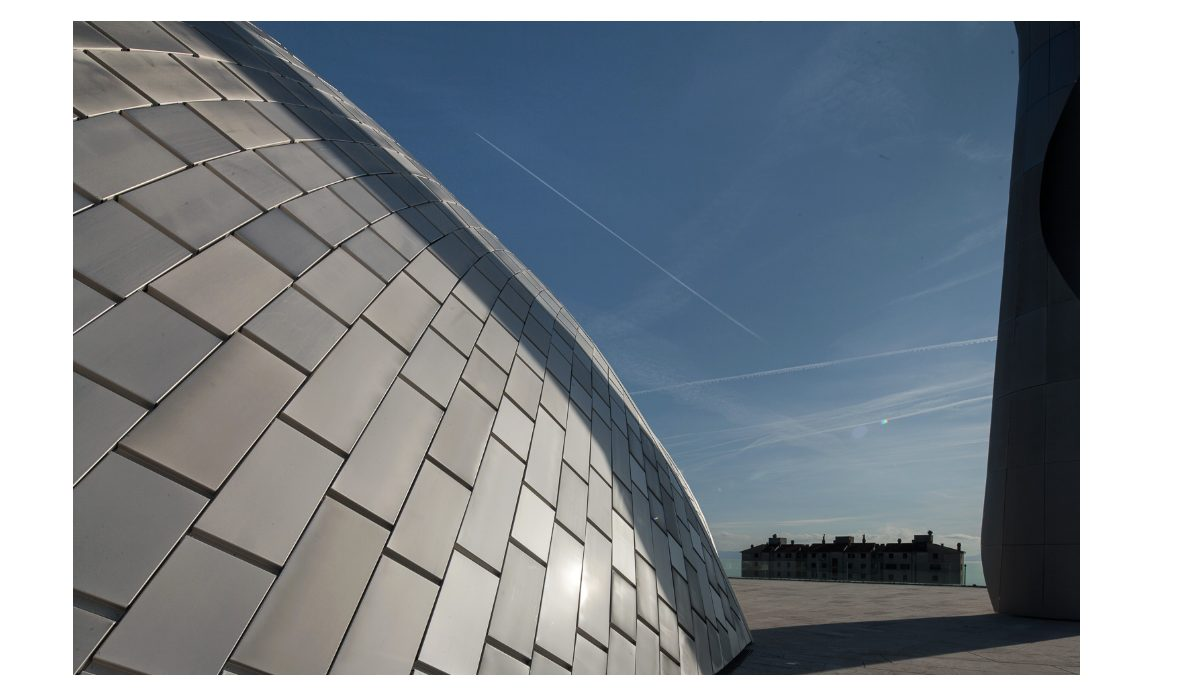
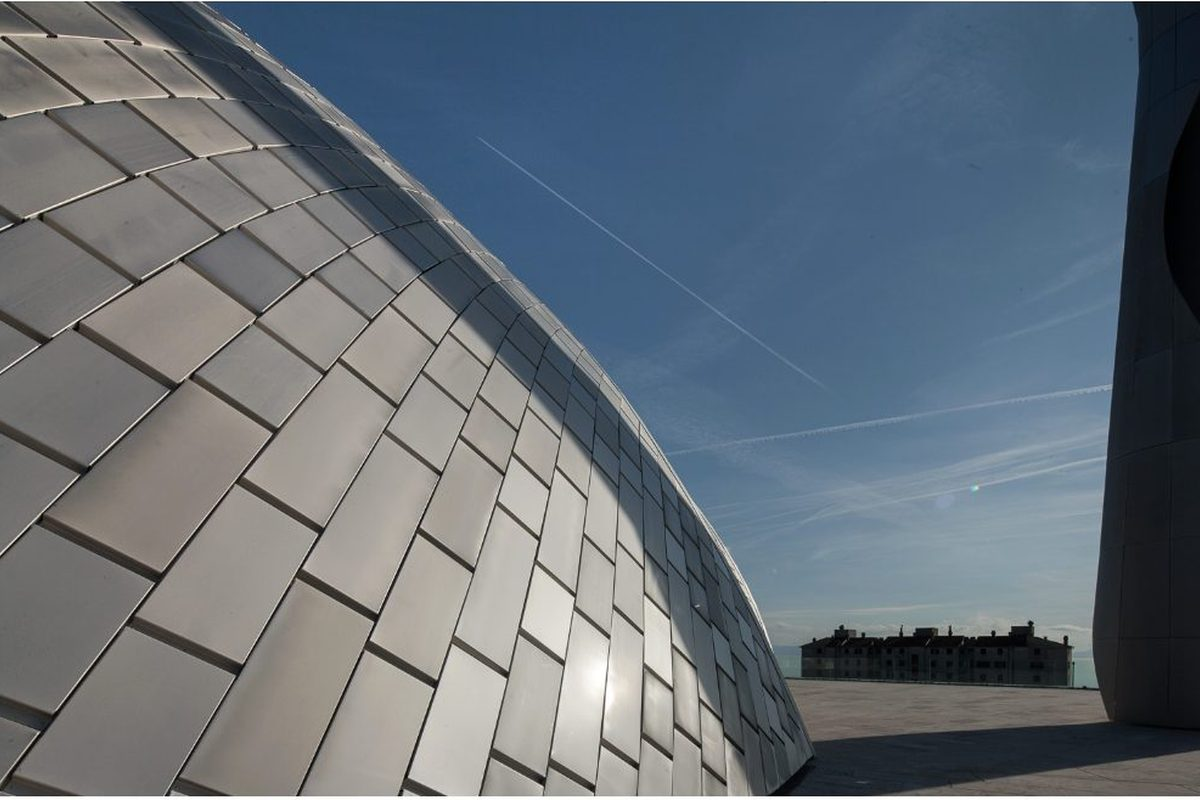
Jednake veličine slika na blog listi: popravljen Test cover (bijeli rubovi, 3:2), clamp naslova i opisa

diff --git a/style.css b/style.css
@@ -114,11 +114,12 @@ nav a:hover,nav a.active{color:var(--teal);}
 .post-list{padding:80px 0;}
 .post-card{display:grid;grid-template-columns:.9fr 1.1fr;gap:0;background:var(--light);border-radius:18px;overflow:hidden;transition:transform .25s,box-shadow .25s;}
 .post-card:hover{transform:translateY(-4px);box-shadow:0 14px 34px rgba(20,40,40,.12);}
-.post-card-img{min-height:280px;background-size:cover;background-position:center;}
+.post-card-img{min-height:320px;background-size:cover;background-position:center;}
+.post-card{min-height:320px;}
 .post-card-body{padding:44px 46px;display:flex;flex-direction:column;justify-content:center;align-items:flex-start;}
 .post-card-body .tag{font-size:12px;font-weight:700;letter-spacing:.25em;text-transform:uppercase;color:var(--teal);margin-bottom:12px;}
-.post-card-body h2{font-size:clamp(20px,2.6vw,28px);font-weight:500;margin-bottom:14px;}
-.post-card-body p{font-size:15px;margin-bottom:24px;}
+.post-card-body h2{font-size:clamp(20px,2.6vw,28px);font-weight:500;margin-bottom:14px;display:-webkit-box;-webkit-line-clamp:2;-webkit-box-orient:vertical;overflow:hidden;}
+.post-card-body p{font-size:15px;margin-bottom:24px;display:-webkit-box;-webkit-line-clamp:2;-webkit-box-orient:vertical;overflow:hidden;}
 .article{max-width:760px;margin:0 auto;padding:90px 24px;}
 .article .tag{font-size:12px;font-weight:700;letter-spacing:.25em;text-transform:uppercase;color:var(--teal);margin-bottom:14px;}
 .article h1{font-size:clamp(28px,4vw,42px);font-weight:500;margin-bottom:28px;}